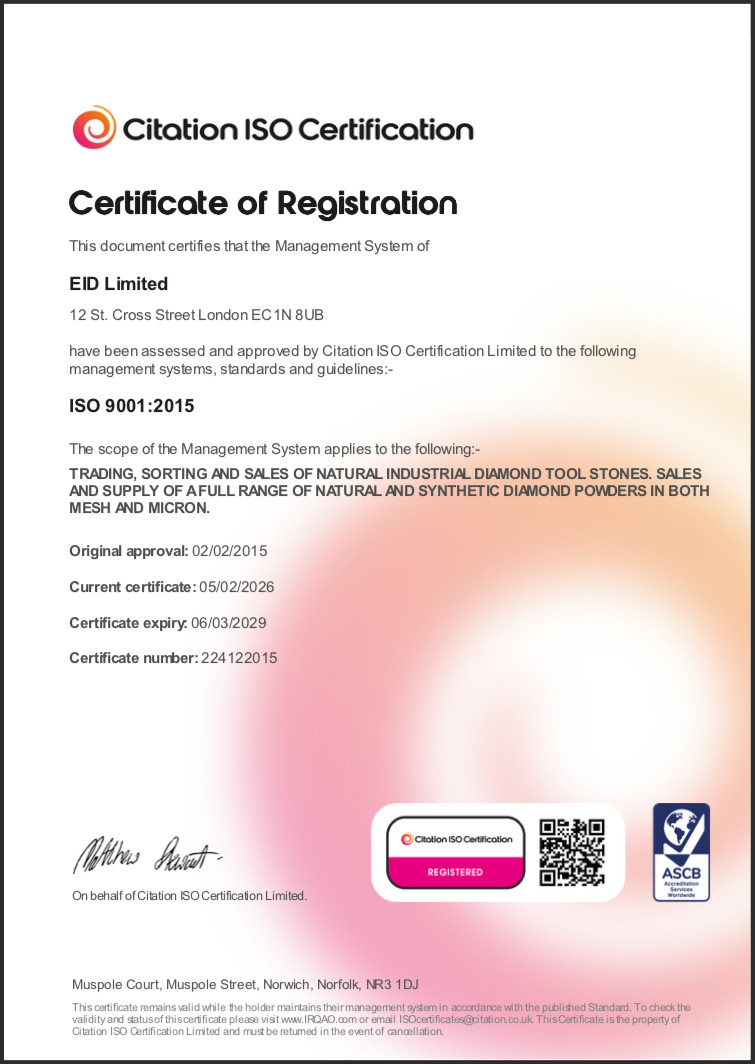
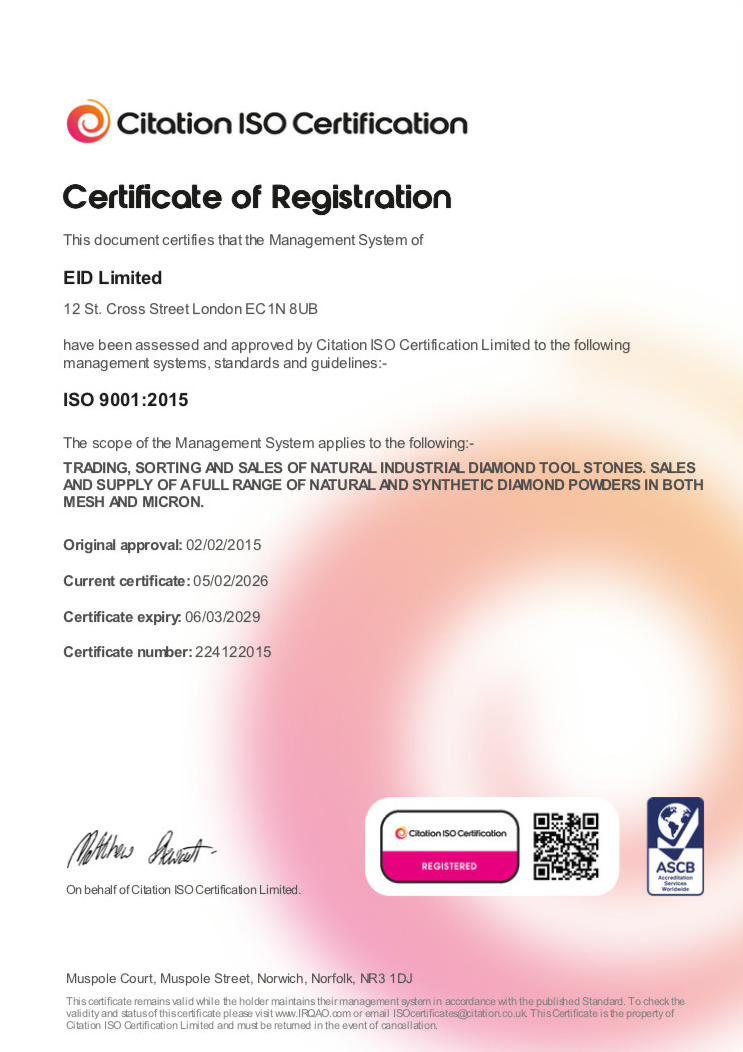
Take the black border off the certificate
⚠ IT WAS IN THE FILE, NOT IN THE CSS, which is why looking at the component
first found nothing: the scan carried a 4px near-black keyline (rgb ~42) baked
into all four edges of the JPEG. Cropped out at 6px a side — the extra two
clear the ringing a JPEG leaves against a hard edge — taking the source from
755x1064 to 743x1052. Verified after: zero dark pixels remain on any edge and
all four corners read pure white. The `width`/`height` on the Image moved with
it so the intrinsic ratio stays honest and nothing shifts on load.

The `border-default-200` hairline went too, per Marc: the certificate sits on
the page rather than in a card.

The shadow stays, and it is not a border in disguise. This section runs on
white and the certificate is white paper, so with no edge treatment at all the
sheet has no boundary and dissolves into the page. Navy at 8% rather than
black, so it lifts without the grey halo a black shadow leaves on white. One
line to remove if it should go too.

Claude-Session: https://claude.ai/code/session_018BM5yWQEmpDJJZNFb1SunC

diff --git a/src/components/quality/TheCertificate.tsx b/src/components/quality/TheCertificate.tsx
@@ -81,29 +81,40 @@ const TheCertificate = () => {
     <section id="certificate" data-note="certificate" className="py-16 lg:py-24">
       <div className="container">
         <div className="grid items-start gap-10 lg:grid-cols-12 lg:gap-14">
-          {/* ── THE SCAN ────────────────────────────────────────────────────
-              `rounded-card` and a hairline, like every other framed thing on
-              this site. The shadow is the one place on the page that uses one,
-              and it is tuned rather than borrowed: navy at 8% rather than
-              black, so on a white ground the card lifts without the grey halo
-              a black shadow leaves. A certificate should read as a sheet of
-              paper sitting on the page.
+          {/* ── THE SCAN, WITH NO FRAME AROUND IT ───────────────────────────
+              ⚠ THE BLACK BORDER WAS IN THE FILE, NOT IN THE CSS, which is why
+              it survived a first look at this component. The source scan
+              carried a 4px near-black keyline (rgb ~42) baked into all four
+              edges of the JPEG. It has been cropped out — 6px off each side to
+              clear the ringing that sits against a hard edge in a JPEG too —
+              taking the file from 755x1064 to 743x1052. Every edge is pure
+              white now; there are zero dark pixels left on any of them.
 
-              `sizes` is honest about the rendered width — this is a 755px
-              source and the column is ~470px at lg, so without it Next would
-              ship the full file to every viewport. */}
+              The `border-default-200` hairline went with it, per Marc: the
+              certificate sits on the page rather than in a card.
+
+              The shadow STAYS, and it is not a border in disguise. This section
+              runs on white and the certificate is white paper, so with no edge
+              treatment at all the sheet has no boundary and dissolves into the
+              page. Navy at 8% rather than black, so it lifts without the grey
+              halo a black shadow leaves on a white ground. If that should go
+              too it is one line — but check it on the page first.
+
+              `sizes` is honest about the rendered width: a 743px source into a
+              column of roughly 470px at lg, so without it Next would ship the
+              full file to every viewport. */}
           <a
             href={CERT}
             target="_blank"
             rel="noopener noreferrer"
-            className="group focus-visible:outline-primary rounded-card border-default-200 relative block overflow-hidden border bg-white focus-visible:outline-2 focus-visible:outline-offset-2 lg:col-span-5"
+            className="group focus-visible:outline-primary rounded-card relative block overflow-hidden focus-visible:outline-2 focus-visible:outline-offset-2 lg:col-span-5"
             style={{ boxShadow: '0 18px 40px -24px rgba(28,39,73,0.28)' }}
           >
             <Image
               src={CERT}
               alt={t(locale, 'EID Limited ISO 9001:2015 certificate of registration, issued by Citation ISO Certification Limited, certificate number 224122015')}
-              width={755}
-              height={1064}
+              width={743}
+              height={1052}
               sizes="(min-width: 1024px) 40vw, 100vw"
               className="h-auto w-full transition-transform duration-700 ease-out group-hover:scale-[1.02]"
             />
